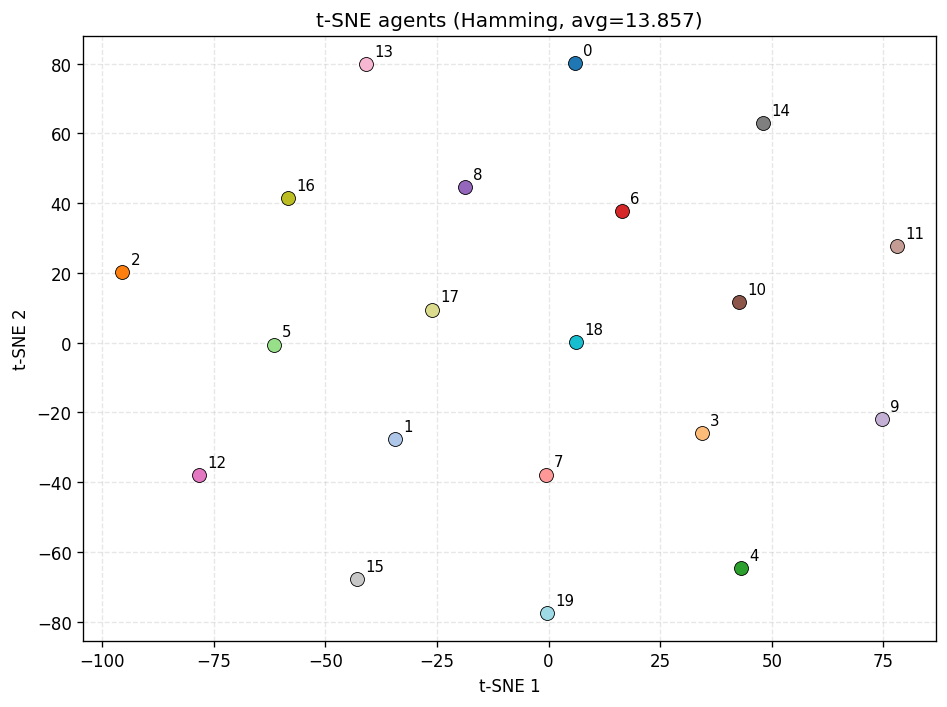
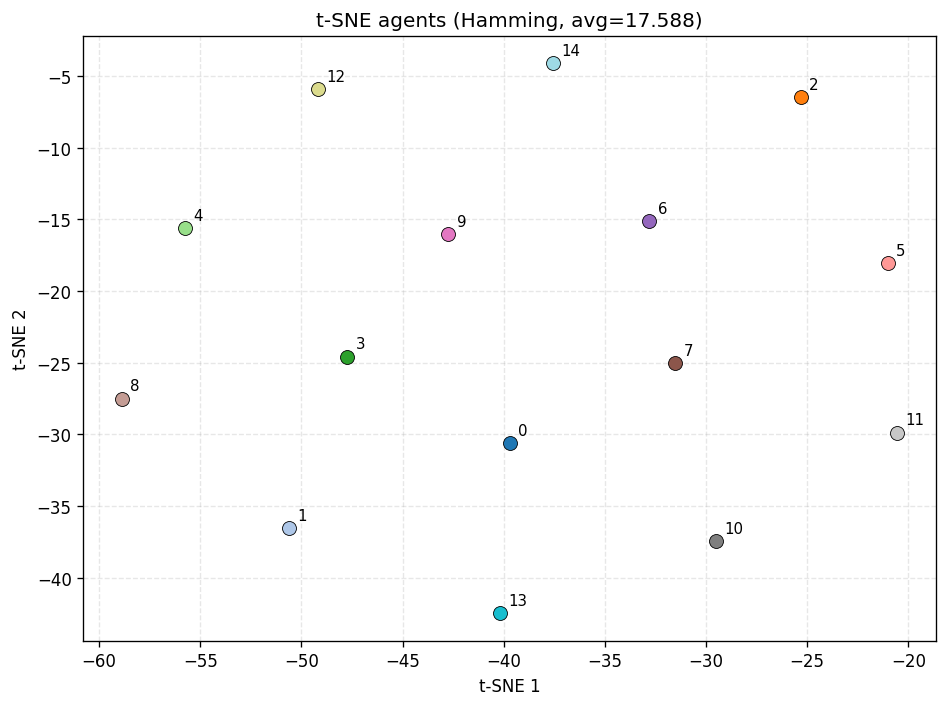
Update configuration parameters and improve code clarity in various files

diff --git a/source_code/eda_strategies/MultiAgentUnivariate/SVGD_EDA.py b/source_code/eda_strategies/MultiAgentUnivariate/SVGD_EDA.py
@@ -446,16 +446,10 @@ class SVGD_EDA(Abstract_EDA, nn.Module):
         baseline = self.baseline.gather(1, active_indices).reshape(active_BM)
 
         if self.use_categorical:
-            active_probs = self.current_active_probs
-            if active_probs is None:
-                D = self.theta.size(-1)
-                gather_index = active_indices.unsqueeze(-1).unsqueeze(-1).expand(B, l_active, N, D)
-                theta = self.theta.gather(1, gather_index).reshape(active_BM, N, D)
-                active_probs = self._compute_probs_from_theta(theta.view(B, l_active, N, D)).reshape(active_BM, N, D)
-            else:
-                D = active_probs.size(-1)
-                theta = self.theta.gather(1, active_indices.unsqueeze(-1).unsqueeze(-1).expand(B, l_active, N, D)).reshape(active_BM, N, D)
-                active_probs = active_probs.reshape(active_BM, N, D)
+            D = self.theta.size(-1)
+            gather_index = active_indices.unsqueeze(-1).unsqueeze(-1).expand(B, l_active, N, D)
+            theta = self.theta.gather(1, gather_index).reshape(active_BM, N, D)
+            active_probs = self._compute_probs_from_theta(theta.view(B, l_active, N, D)).reshape(active_BM, N, D)
             all_Pi_Theta_expanded = active_probs.unsqueeze(1).expand(-1, λa, -1, -1)
             log_probs = torch.log(all_Pi_Theta_expanded + 1e-10)
             indices = indivduals.long().unsqueeze(-1)
@@ -463,11 +457,7 @@ class SVGD_EDA(Abstract_EDA, nn.Module):
         else:
             gather_index = active_indices.unsqueeze(-1).expand(B, l_active, N)
             theta = self.theta.gather(1, gather_index).reshape(active_BM, N)
-            active_probs = self.current_active_probs
-            if active_probs is None:
-                active_probs = self._compute_probs_from_theta(theta.view(B, l_active, N)).reshape(active_BM, N)
-            else:
-                active_probs = active_probs.reshape(active_BM, N)
+            active_probs = self._compute_probs_from_theta(theta.view(B, l_active, N)).reshape(active_BM, N)
             all_Pi_Theta_expanded = active_probs.unsqueeze(1).expand(-1, λa, -1)
             Pi_selected = torch.where(
                 indivduals == 1.0,
@@ -488,15 +478,17 @@ class SVGD_EDA(Abstract_EDA, nn.Module):
         loss_per_instance = torch.mean(advantages * log_Pi, dim=1)
         loss = loss_per_instance.sum()
 
-        grad_theta, = torch.autograd.grad(loss, self.theta, create_graph=False, retain_graph=True)
-        grad_theta = grad_theta.detach()
-        self.last_theta_grad = grad_theta.clone()
+        grad_active, = torch.autograd.grad(loss, theta, create_graph=False)
+        grad_active = grad_active.detach().view(B, l_active, *theta.shape[1:])
+
         if self.gradient_memory is None:
-            self.gradient_memory = torch.zeros_like(grad_theta)
+            self.gradient_memory = torch.zeros_like(self.theta.detach())
+        if self.last_theta_grad is None:
+            self.last_theta_grad = torch.zeros_like(self.theta.detach())
 
         with torch.no_grad():
-            for batch_idx in range(B):
-                self.gradient_memory[batch_idx, active_indices[batch_idx]] = grad_theta[batch_idx, active_indices[batch_idx]]
+            self.gradient_memory.scatter_(1, gather_index, grad_active)
+            self.last_theta_grad.scatter_(1, gather_index, grad_active)
             baseline_new = scoreList.view(B, l_active, λa).mean(dim=2)
             for batch_idx in range(B):
                 self.baseline[batch_idx, active_indices[batch_idx]] = baseline_new[batch_idx]

diff --git a/source_code/main.py b/source_code/main.py
@@ -361,7 +361,7 @@ def main(cfg: DictConfig):
     avg = float(np.mean(list_scores))
     print("average_test_score:", avg)
 
-    if not is_nasbench and type_problem_upper != "VIENNARNA":
+    if visualization_enabled and not is_nasbench and type_problem_upper != "VIENNARNA":
         try:
             plot_agents_tsne(
                 strategy,
@@ -374,7 +374,7 @@ def main(cfg: DictConfig):
     elif is_nasbench:
         print("[INFO] t-SNE skipped for nasbench (categorical variables).")
     else:
-        print("[INFO] t-SNE skipped for ViennaRNA.")
+        print("[INFO] t-SNE.")
 
 
 if __name__ == "__main__":

diff --git a/source_code/environment/nk.py b/source_code/environment/nk.py
@@ -187,7 +187,7 @@ def get_Score_trajectoriesNK_cuda(
     solutions_history = [] if enable_visualization else None
     metrics = MetricsCalculator(normalization_factor=N)
 
-    use_tqdm = bool(verbose and enable_visualization)
+    use_tqdm = bool(verbose)
     pbar = tqdm(range(nb_iterations)) if use_tqdm else range(nb_iterations)
 
     def _evaluate_population(tensor_solution):